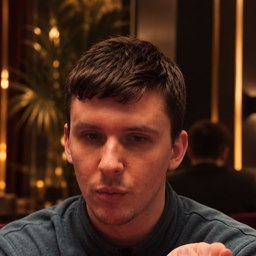
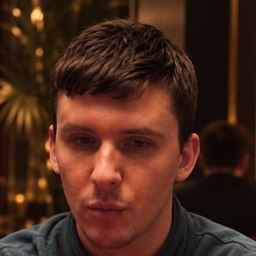
Плотный кроп аватарок и ребрендинг в Веб Лабораторию
- Аватары перекропаны: лицо занимает ~90% круга у обоих
- Nexus Lab -> Веб Лаборатория маркетинга и разработки: тайтл, шапка,
  хиро, футер, текст заявки; в шапке короткая форма Веб Лаборатория
- Мобильная шапка: логотип в одну строку, компактная кнопка CTA

diff --git a/index.html b/index.html
@@ -3,7 +3,7 @@
 <head>
   <meta charset="utf-8">
   <meta name="viewport" content="width=device-width, initial-scale=1">
-  <title>Nexus Lab — лендинг, бот и Директ под ключ</title>
+  <title>Веб Лаборатория маркетинга и разработки — сайт, бот и реклама под ключ</title>
   <meta name="description" content="Сайт, Telegram-бот и реклама в Яндексе под ключ. Настраиваем всё так, чтобы реклама приносила заявки, а не просто клики. Работаем по всей России.">
   <link rel="preconnect" href="https://fonts.googleapis.com">
   <link rel="preconnect" href="https://fonts.gstatic.com" crossorigin>
@@ -760,6 +760,12 @@
     @keyframes dash {
       to { stroke-dashoffset: -200; }
     }
+    @media (max-width: 480px) {
+      .logo { font-size: 0.88rem; white-space: nowrap; }
+      .logo__mark { width: 1.3rem; height: 1.3rem; }
+      .nav__cta { font-size: 0.8rem; padding: 0.5rem 0.7rem; }
+    }
+
     @media (max-width: 700px) {
       .hero {
         align-items: center;
@@ -790,9 +796,9 @@
 
   <header class="nav" id="nav">
     <div class="wrap nav__inner">
-      <a class="logo" href="#top" aria-label="Nexus Lab — наверх">
+      <a class="logo" href="#top" aria-label="Веб Лаборатория — наверх">
         <span class="logo__mark" aria-hidden="true"></span>
-        Nexus Lab
+        Веб Лаборатория
       </a>
       <nav class="nav__links" aria-label="Разделы">
         <a href="#how">Как работает</a>
@@ -849,7 +855,7 @@
       </div>
 
       <div class="wrap hero__content">
-        <p class="hero__eyebrow">Nexus Lab</p>
+        <p class="hero__eyebrow">Веб Лаборатория маркетинга и разработки</p>
         <h1 id="hero-title">Чтобы реклама приводила клиентов, а не съедала бюджет</h1>
         <p class="hero__lead">
           Сделаем сайт, Telegram-бота и настроим рекламу в Яндексе — под ключ. Каждая заявка сразу приходит вам в Telegram, ни один клиент не теряется.
@@ -1013,7 +1019,7 @@
     <section id="why" aria-labelledby="why-title">
       <div class="wrap">
         <div class="section-head reveal">
-          <h2 id="why-title">Почему Nexus Lab</h2>
+          <h2 id="why-title">Почему мы</h2>
           <p>Два партнёра — полный цикл от кода и рекламы до разбора звонков и продаж.</p>
         </div>
         <div class="why__grid reveal">
@@ -1147,7 +1153,7 @@
 
   <footer>
     <div class="wrap footer__inner">
-      <div class="footer__brand">Nexus Lab</div>
+      <div class="footer__brand">Веб Лаборатория маркетинга и разработки</div>
       <div>Python · боты · сайты · Директ · по России</div>
       <div>
         <a href="https://t.me/n9dmitry" target="_blank" rel="noopener noreferrer">Telegram</a>
@@ -1207,7 +1213,7 @@
         }
 
         var text = [
-          "Заявка с лендинга Nexus Lab",
+          "Заявка с лендинга Веб Лаборатории",
           "Имя: " + name,
           "Контакт: " + contact,
           "Интересует: " + pack,
